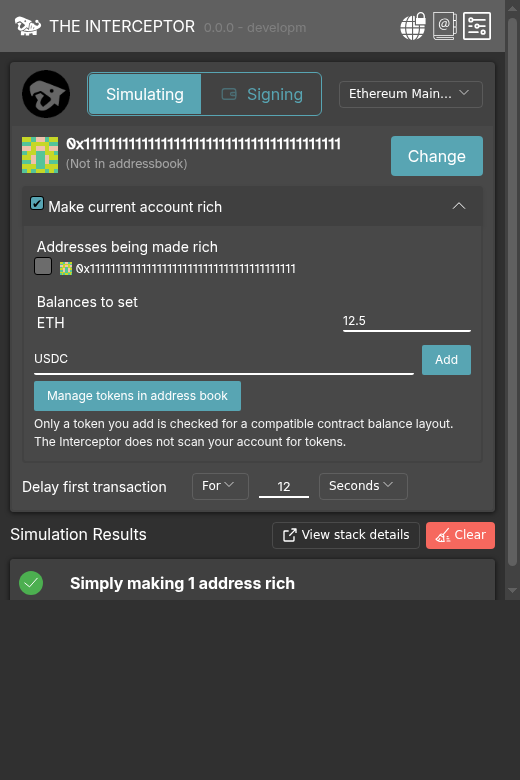
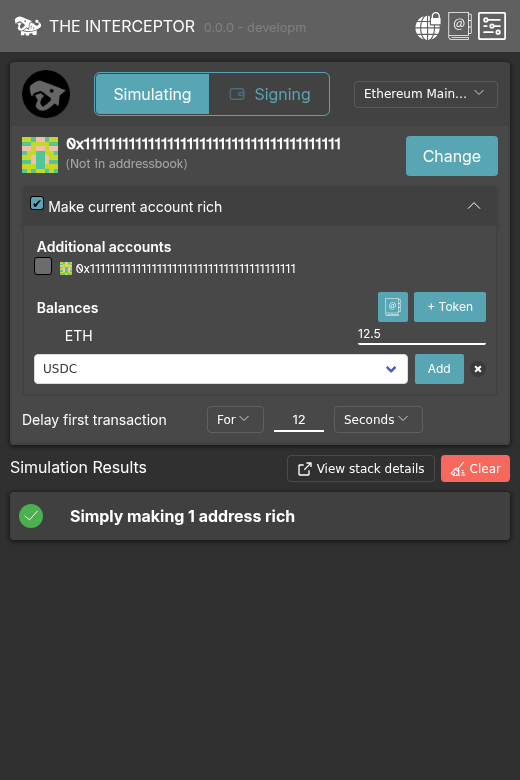
Streamline rich-mode balance controls

diff --git a/app/ts/components/pages/Home.tsx b/app/ts/components/pages/Home.tsx
@@ -351,6 +351,7 @@ function RichList({ makeCurrentAddressRich, richNativeAmount, nativeCurrencyTick
 	const richTokenPending = useSignal(false)
 	const richTokenPendingLabel = useSignal<string | undefined>(undefined)
 	const selectedRichTokenKey = useSignal('')
+	const showRichTokenPicker = useSignal(false)
 	const getRichTokenLabel = (option: RichTokenOption) => option.tokenId === undefined ? option.symbol : `${ option.symbol } #${ option.tokenId.toString() }`
 	const getRichTokenKey = (option: RichTokenOption) => `${ option.tokenAddress.toString() }:${ option.tokenId?.toString() ?? 'erc20' }`
 	const enabledRichTokens = useComputed(() => richTokenOptions.value.filter((option) => option.enabled))
@@ -360,7 +361,7 @@ function RichList({ makeCurrentAddressRich, richNativeAmount, nativeCurrencyTick
 		if (richTokenPending.value) return
 		richTokenPending.value = true
 		richTokenPendingLabel.value = enabled
-			? `Preparing ${ getRichTokenLabel(option) } for simulation…`
+			? `Preparing ${ getRichTokenLabel(option) }…`
 			: `Removing ${ getRichTokenLabel(option) } from rich mode…`
 		richTokenError.value = undefined
 		const reply = await sendPopupMessageWithReply({
@@ -393,7 +394,10 @@ function RichList({ makeCurrentAddressRich, richNativeAmount, nativeCurrencyTick
 		const option = availableRichTokens.value.find((entry) => getRichTokenKey(entry) === selectedRichTokenKey.value)
 		if (option === undefined) return
 		await setRichTokenEnabled(option, true)
-		if (richTokenError.value === undefined) selectedRichTokenKey.value = ''
+		if (richTokenError.value === undefined) {
+			selectedRichTokenKey.value = ''
+			showRichTokenPicker.value = false
+		}
 	}
 
 	const setNativeAmount = (input: HTMLInputElement) => {
@@ -477,40 +481,56 @@ function RichList({ makeCurrentAddressRich, richNativeAmount, nativeCurrencyTick
 			</> } </>
 			: <div class = 'card-content'>
 				<div style = { { display: 'flex', flexDirection: 'column' } } >
-					<p class = 'paragraph checkbox-text' style = 'white-space: nowrap;'> Addresses being made rich</p>
+					<p class = 'paragraph checkbox-text' style = 'white-space: nowrap; font-weight: 600;'> Additional accounts</p>
 					{ visibleRichList.value.map((richListElement) =>
 						<label class = 'form-control' style = 'gap: 1em;' key = { richListElement.addressBookEntry.address.toString() }>
 							<input type = 'checkbox' disabled = { !isInitialHomeDataLoaded.value } checked = { richListElement.makingRich } aria-label = { `Toggle rich address ${ richListElement.addressBookEntry.address.toString() }` } onInput = { e => { if (e.target instanceof HTMLInputElement && e.target !== null) { modifyRichList(richListElement.addressBookEntry, e.target.checked) } } } />
 							<SmallAddress addressBookEntry = { richListElement.addressBookEntry } renameAddressCallBack = { renameAddressCallBack } noCopying = { !isInitialHomeDataLoaded.value } noEditAddress = { !isInitialHomeDataLoaded.value }/>
 						</label>
 					) }
-					<p class = 'paragraph checkbox-text' style = 'white-space: nowrap; padding-top: 0.75em;'> Balances to set</p>
-					<div style = 'display: grid; grid-template-columns: minmax(4em, 1fr) minmax(5em, 8em); gap: 0.75em; align-items: center;'>
+					<div style = 'display: flex; align-items: center; justify-content: space-between; padding-top: 0.75em;'>
+						<p class = 'paragraph checkbox-text' style = 'white-space: nowrap; font-weight: 600;'> Balances</p>
+						<div style = 'display: flex; gap: 0.4em;'>
+							<button type = 'button' class = 'button is-small' aria-label = 'Open token address book' data-tooltip = 'Open token address book' onClick = { () => { void sendPopupMessageToBackgroundPage({ method: 'popup_openAddressBook' }) } }>
+								<span class = 'icon'><img src = '../img/address-book.svg' width = '18' height = '18'/></span>
+							</button>
+							<button
+								type = 'button'
+								class = 'button is-small is-primary'
+								aria-label = 'Choose rich token'
+								data-tooltip = 'Choose from the address book; only the selected contract is checked'
+								disabled = { richTokenPending.value || availableRichTokens.value.length === 0 }
+								onClick = { () => { showRichTokenPicker.value = !showRichTokenPicker.value } }
+							>+ Token</button>
+						</div>
+					</div>
+					<div style = 'display: grid; grid-template-columns: 1em minmax(4em, 1fr) minmax(5em, 8em); gap: 0.75em; align-items: center; padding: 0.15em 0;'>
+						<span/>
 						<span class = 'paragraph checkbox-text'>{ nativeCurrencyTicker }</span>
 						<input class = 'input is-small' aria-label = { `${ nativeCurrencyTicker } rich amount` } disabled = { richTokenPending.value } value = { formatUnits(richNativeAmount.value, 18) } onChange = { event => { setNativeAmount(event.currentTarget) } } />
 					</div>
 					<div aria-busy = { richTokenPending.value }>
 						{ enabledRichTokens.value.map((option) =>
-							<div style = 'display: grid; grid-template-columns: 1em minmax(4em, 1fr) minmax(5em, 8em); gap: 0.75em; align-items: center;' key = { getRichTokenKey(option) }>
+							<div style = 'display: grid; grid-template-columns: 1em minmax(4em, 1fr) minmax(5em, 8em); gap: 0.75em; align-items: center; padding: 0.15em 0;' key = { getRichTokenKey(option) }>
 								<button type = 'button' class = 'delete is-small' disabled = { richTokenPending.value } aria-label = { `Remove rich token ${ getRichTokenLabel(option) }` } onClick = { () => { void setRichTokenEnabled(option, false) } } />
 								<span class = 'paragraph checkbox-text'>{ getRichTokenLabel(option) }</span>
 								<input class = 'input is-small' aria-label = { `${ getRichTokenLabel(option) } rich amount` } disabled = { !option.enabled || richTokenPending.value } value = { formatUnits(option.amount, Number(option.decimals)) } onChange = { event => { void setRichTokenAmount(option, event.currentTarget) } } />
 							</div>
 						) }
 					</div>
-					{ availableRichTokens.value.length === 0
-						? richTokenOptions.value.length === 0 ? <></> : <p class = 'help is-light'>All available address-book tokens are selected.</p>
-						: <div style = 'display: grid; grid-template-columns: minmax(0, 1fr) min-content; gap: 0.5em; padding-top: 0.75em;'>
-							<select class = 'input is-small' aria-label = 'Choose address-book token' disabled = { richTokenPending.value } value = { selectedRichTokenKey.value } onChange = { event => { selectedRichTokenKey.value = event.currentTarget.value } }>
-								<option value = ''>Choose token from address book…</option>
-								{ availableRichTokens.value.map((option) => <option value = { getRichTokenKey(option) } key = { getRichTokenKey(option) }>{ getRichTokenLabel(option) }</option>) }
-							</select>
+					{ !showRichTokenPicker.value || availableRichTokens.value.length === 0
+						? <></>
+						: <div style = 'display: grid; grid-template-columns: minmax(0, 1fr) min-content 1em; gap: 0.4em; align-items: center; padding-top: 0.4em;'>
+							<div class = 'select is-small' style = 'min-width: 0;'>
+								<select style = 'width: 100%;' aria-label = 'Choose address-book token' disabled = { richTokenPending.value } value = { selectedRichTokenKey.value } onChange = { event => { selectedRichTokenKey.value = event.currentTarget.value } }>
+									<option value = ''>Select token…</option>
+									{ availableRichTokens.value.map((option) => <option value = { getRichTokenKey(option) } key = { getRichTokenKey(option) }>{ getRichTokenLabel(option) }</option>) }
+								</select>
+							</div>
 							<button type = 'button' class = 'button is-small is-primary' aria-label = 'Add selected rich token' disabled = { richTokenPending.value || selectedRichTokenKey.value === '' } onClick = { () => { void addSelectedRichToken() } }>Add</button>
+							<button type = 'button' class = 'delete is-small' aria-label = 'Cancel choosing rich token' disabled = { richTokenPending.value } onClick = { () => { selectedRichTokenKey.value = ''; showRichTokenPicker.value = false } }/>
 						</div>
 					}
-					<button type = 'button' class = 'button is-small is-primary' style = 'justify-content: flex-start; width: fit-content; margin-top: 0.5em;' onClick = { () => { void sendPopupMessageToBackgroundPage({ method: 'popup_openAddressBook' }) } }>Manage tokens in address book</button>
-					{ richTokenOptions.value.length === 0 ? <p class = 'help is-light'>Add an ERC-20 token or watch an ERC-1155 token ID in the address book to make it available here.</p> : <></> }
-					<p class = 'help is-light'>Only a token you add is checked for a compatible contract balance layout. The Interceptor does not scan your account for tokens.</p>
 					{ richTokenPendingLabel.value === undefined ? <></> : <p class = 'help is-light' role = 'status'>{ richTokenPendingLabel.value }</p> }
 					{ richTokenError.value === undefined ? <></> : <p class = 'help is-danger'>{ richTokenError.value }</p> }
 				</div>

diff --git a/test/benchmarks/richModeScreenshot.ts b/test/benchmarks/richModeScreenshot.ts
@@ -104,6 +104,7 @@ try {
 		if (!(richHeader instanceof HTMLElement)) throw new Error('Rich-mode header not found')
 		richHeader.click()
 	})()`)
+	await clickAriaLabel(popup, 'Choose rich token')
 	await waitForText(popup, 'USDC')
 	await waitForText(popup, 'ITEM #42')
 	await chooseToken(popup, 'USDC')
@@ -111,19 +112,20 @@ try {
 	await captureScreenshot(popup, availableScreenshotPath)
 
 	await clickAriaLabel(popup, 'Add selected rich token')
-	await waitForText(popup, 'Preparing USDC for simulation')
+	await waitForText(popup, 'Preparing USDC')
 	await sleep(150)
 	await captureScreenshot(popup, detectingScreenshotPath)
 	await waitForCondition(
 		popup,
 		'USDC enabled',
-		`document.querySelector(${ JSON.stringify('[aria-label="USDC rich amount"]') }) !== null && document.body?.textContent?.includes('Preparing USDC for simulation') === false`,
+		`document.querySelector(${ JSON.stringify('[aria-label="USDC rich amount"]') }) !== null && document.body?.textContent?.includes('Preparing USDC') === false`,
 	)
+	await clickAriaLabel(popup, 'Choose rich token')
 	await addToken(popup, 'ITEM #42')
 	await waitForCondition(
 		popup,
 		'ITEM #42 enabled',
-		`document.querySelector(${ JSON.stringify('[aria-label="ITEM #42 rich amount"]') }) !== null && document.body?.textContent?.includes('Preparing ITEM #42 for simulation') === false`,
+		`document.querySelector(${ JSON.stringify('[aria-label="ITEM #42 rich amount"]') }) !== null && document.body?.textContent?.includes('Preparing ITEM #42') === false`,
 	)
 	await sleep(250)
 	await captureScreenshot(popup, screenshotPath)

diff --git a/test/tests/popupIconResync.test.ts b/test/tests/popupIconResync.test.ts
@@ -1146,6 +1146,10 @@ describe('popup icon sync', () => {
 			assert.equal(amountInput?.getAttribute?.('value'), '1000000')
 			const erc1155AmountInput = collectElements(dom.document.body, 'input').find((input) => input.getAttribute?.('aria-label') === 'ITEM #42 rich amount')
 			assert.equal(erc1155AmountInput?.getAttribute?.('value'), '1000000')
+			const chooseTokenButton = collectElements(dom.document.body, 'button').find((button) => button.getAttribute?.('aria-label') === 'Choose rich token')
+			await act(async () => {
+				if (chooseTokenButton !== undefined) await clickElement(chooseTokenButton)
+			})
 			const tokenPicker = collectElements(dom.document.body, 'select').find((select) => select.getAttribute?.('aria-label') === 'Choose address-book token')
 			assert.equal(tokenPicker?.textContent?.includes('DAI'), true)
 			assert.equal(hasAriaLabel(dom.document.body, 'DAI rich amount'), false)
